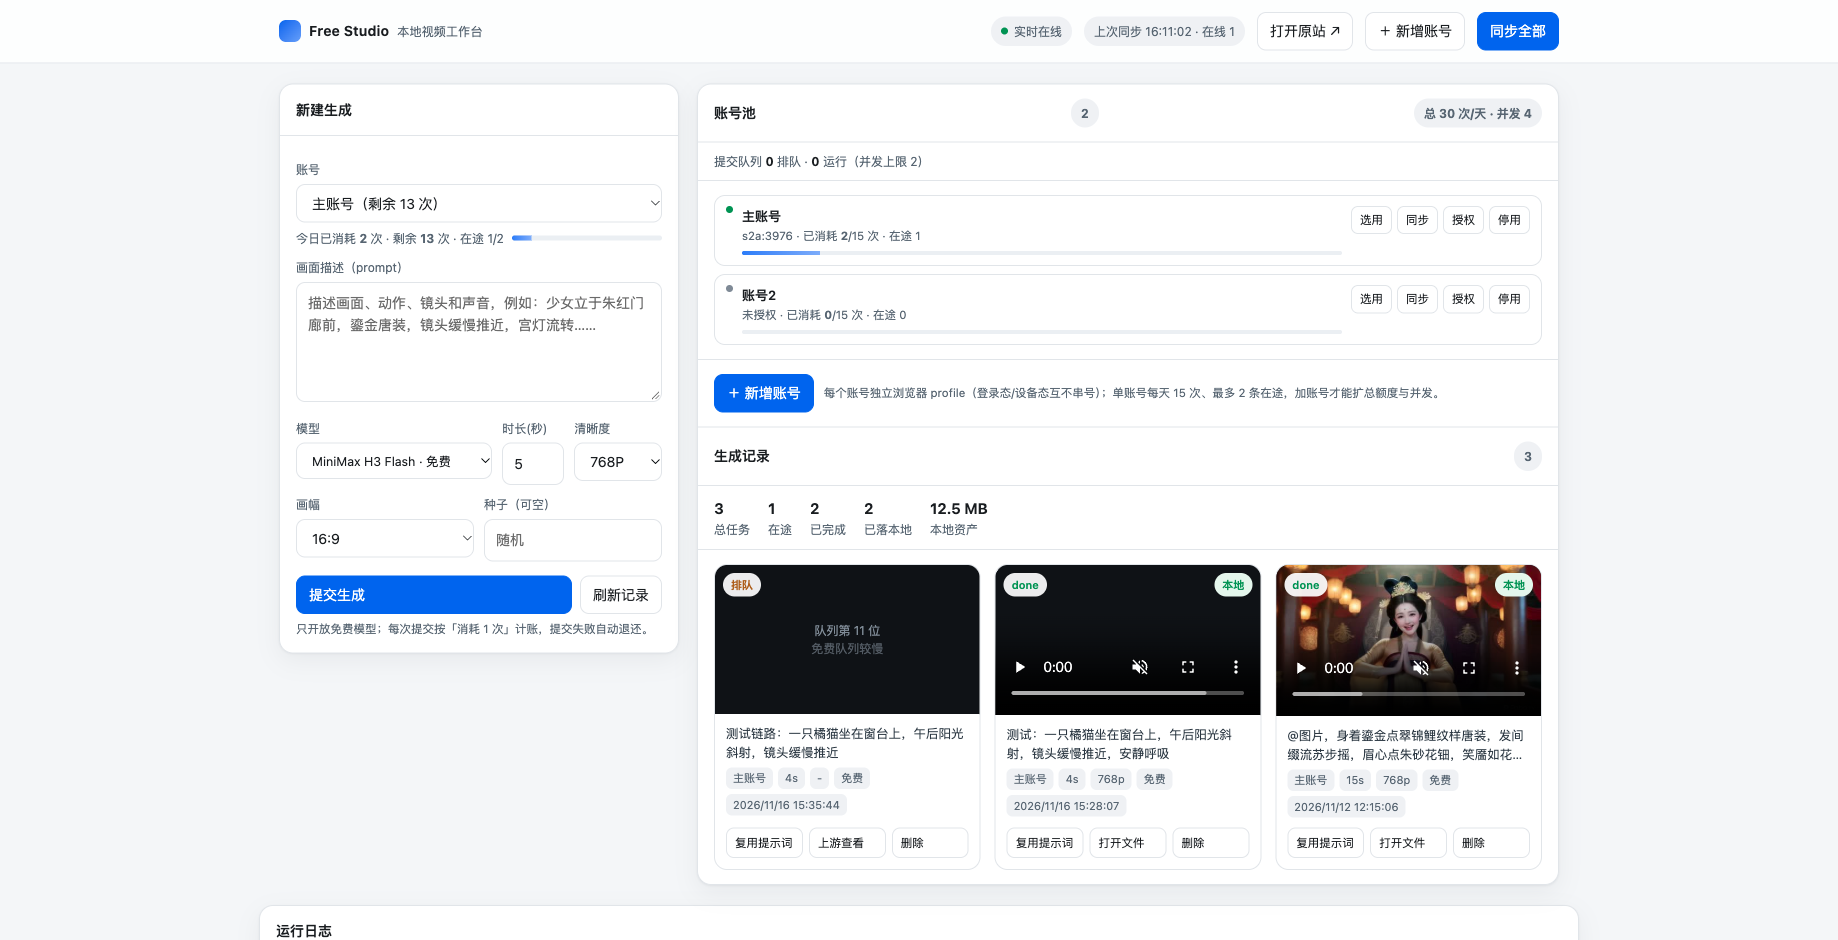
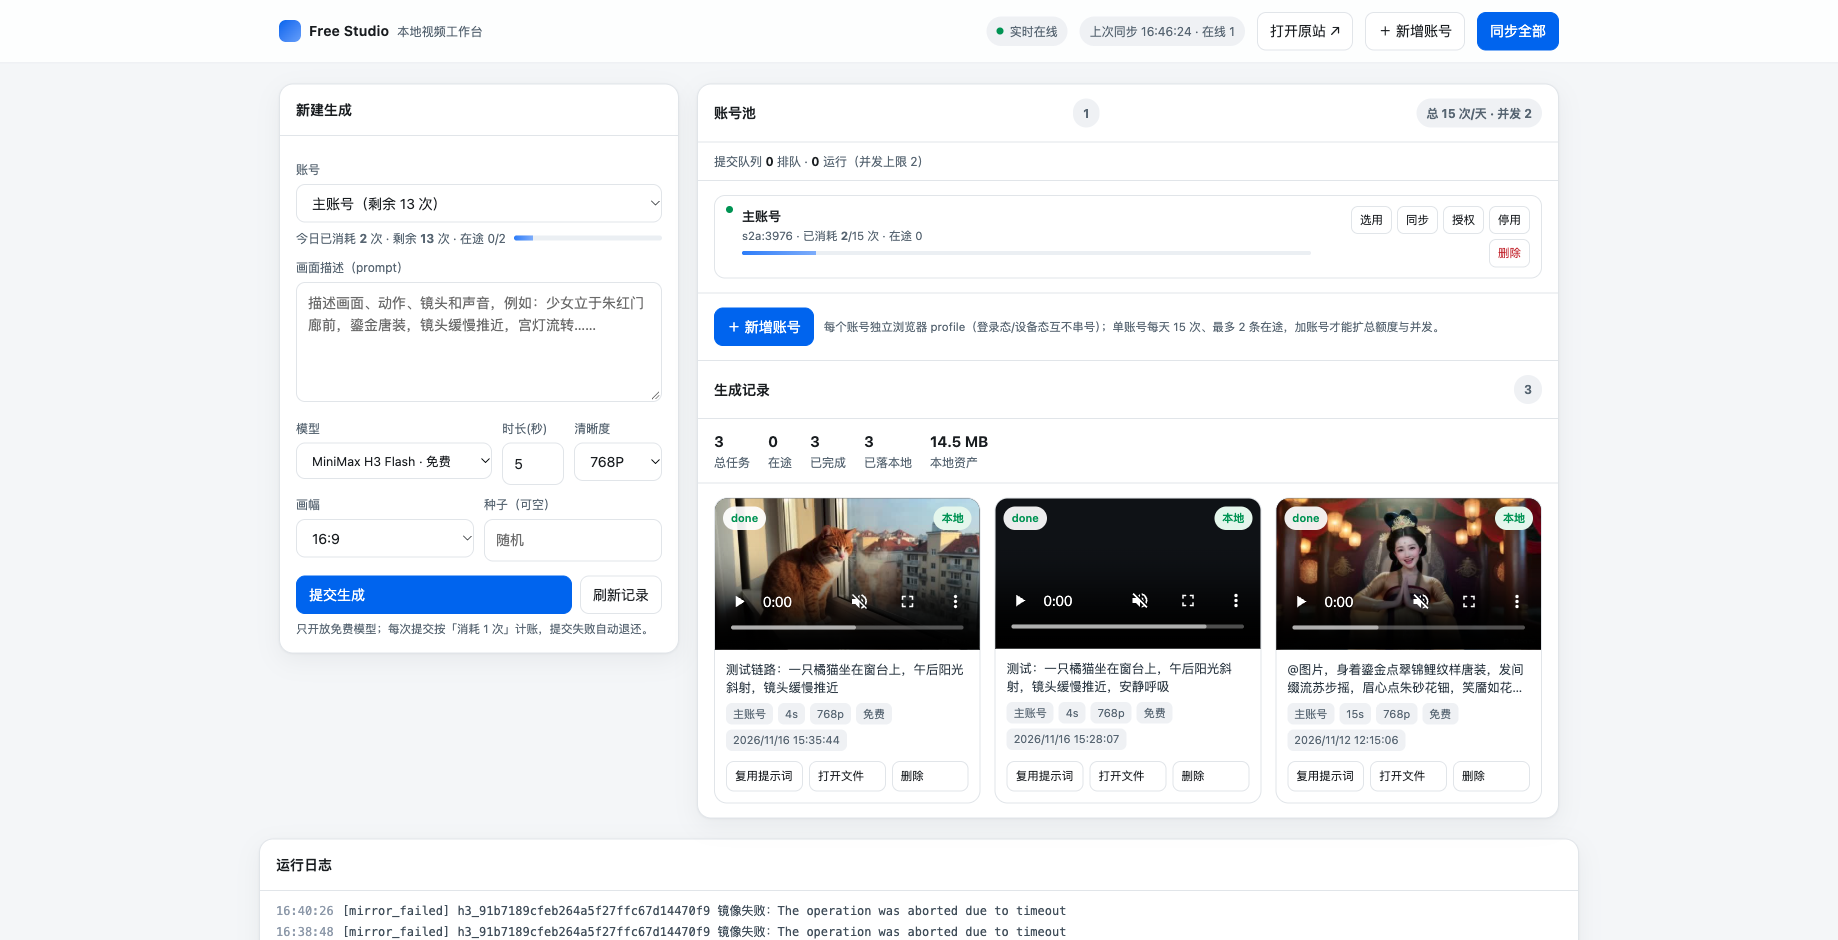
fix: 账号可删除 + 授权窗口置前/兜底 + ego 硬超时 + 镜像改后台队列 + 单实例保护

diff --git a/web/index.html b/web/index.html
@@ -194,7 +194,10 @@
       <div class="steps" style="margin-top:8px">
         从已登录的浏览器 DevTools → Application → Cookies 复制，导入后立即校验 <code>/auth/me</code>。
       </div>
-      <div class="foot"><button id="addCookieGo" class="primary">导入并校验</button></div>
+      <div class="foot">
+        <button id="openLoginPage" class="ghost">打开登录页</button>
+        <button id="addCookieGo" class="primary">导入并校验</button>
+      </div>
     </div>
     <div class="pane" data-pane="ego" hidden>
       <label class="f" style="margin-top:0">账号备注</label>
@@ -226,7 +229,11 @@ function toast(msg, err = false) {
 async function api(path, opts) {
   const res = await fetch(path, { headers: { "Content-Type": "application/json" }, ...opts });
   const body = await res.json().catch(() => ({}));
-  if (!res.ok) throw new Error(body.error || `HTTP ${res.status}`);
+  if (!res.ok) {
+    const err = new Error(body.error || `HTTP ${res.status}`);
+    err.code = body.code || "error";
+    throw err;
+  }
   return body;
 }
 
@@ -266,6 +273,7 @@ function renderAccounts() {
         <button data-op="login">授权</button>
         ${a.needsChallenge ? '<button data-op="challenge">验证</button>' : ""}
         <button data-op="toggle">${a.disabled ? "启用" : "停用"}</button>
+        <button data-op="del" style="color:#c53030">删除</button>
       </div>`;
     item.querySelectorAll("button").forEach((b) => {
       b.onclick = async (e) => {
@@ -279,11 +287,20 @@ function renderAccounts() {
             await api(`/api/accounts/${a.id}/login`, { method: "POST" });
             toast("已打开登录窗口，请完成授权…");
             await refresh();
-            const done = await waitOnline(a.id);
-            toast(done ? "授权成功" : "登录未完成", !done);
+            const done = await waitOnline(a.id, 120000);
+            if (!done) {
+              toast("登录未完成：受控 Chrome 可能起不来，试试「导入 Cookie」", true);
+              addModal.hidden = false; switchTab("cookie");
+            } else toast("授权成功");
           }
           if (op === "challenge") { toast("已打开人机验证窗口，请在弹窗内完成…"); await api(`/api/accounts/${a.id}/challenge`, { method: "POST" }); toast("验证完成"); }
           if (op === "toggle") { await api(`/api/accounts/${a.id}/toggle`, { method: "POST", body: JSON.stringify({ disabled: !a.disabled }) }); }
+          if (op === "del") {
+            if (!confirm(`从账号池删除「${a.label}」？\n\n· 本地已下载的成片会保留\n· 浏览器 profile 默认保留（可重新授权）`)) { b.disabled = false; return; }
+            await api(`/api/accounts/${a.id}/delete`, { method: "POST", body: JSON.stringify({ purge: false }) });
+            if (activeAccount === a.id) { activeAccount = ""; localStorage.removeItem("fs.account"); }
+            toast("已删除账号 " + a.label);
+          }
           await refresh();
         } catch (err) { toast(err.message, true); }
         finally { b.disabled = false; }
@@ -487,13 +504,12 @@ $("btnAddTop").onclick = openAdd;
 $("btnAddAcct").onclick = openAdd;
 $("addClose").onclick = () => { addModal.hidden = true; };
 addModal.addEventListener("click", (e) => { if (e.target === addModal) addModal.hidden = true; });
+function switchTab(name) {
+  document.querySelectorAll(".sheet .tabs button").forEach((x) => x.classList.toggle("on", x.dataset.tab === name));
+  document.querySelectorAll(".sheet .pane").forEach((pane) => { pane.hidden = pane.dataset.pane !== name; });
+}
 document.querySelectorAll(".sheet .tabs button").forEach((b) => {
-  b.onclick = () => {
-    document.querySelectorAll(".sheet .tabs button").forEach((x) => x.classList.toggle("on", x === b));
-    document.querySelectorAll(".sheet .pane").forEach((pane) => {
-      pane.hidden = pane.dataset.pane !== b.dataset.tab;
-    });
-  };
+  b.onclick = () => switchTab(b.dataset.tab);
 });
 
 async function createAccount(label, backend, btn, busyText) {
@@ -523,10 +539,18 @@ $("addBrowserGo").onclick = async () => {
     toast(a ? "账号已接入：" + (a.upstreamUserId || a.label) : "登录未完成，可稍后在账号池点「授权」继续", !a);
   } catch (e) {
     toast(e.message, true);
-    if (/Chrome 起不来|chrome_unavailable/.test(e.message)) {
-      toast("改用「导入 Cookie」标签页，或在本机终端运行 npm run account", true);
+    if (e.code === "chrome_unavailable" || /Chrome 起不来/.test(e.message)) {
+      addModal.hidden = false;
+      switchTab("cookie");
+      toast("受控 Chrome 起不来，改用「导入 Cookie」；也可点下面「打开登录页」用系统浏览器登录", true);
     }
   } finally { btn.disabled = false; btn.textContent = "打开登录窗口"; }
+};
+
+$("openLoginPage").onclick = async () => {
+  try { await api("/api/open-site", { method: "POST" }); }
+  catch (e) { toast(e.message, true); return; }
+  toast("已用系统浏览器打开 paba.tv，登录后按 F12 → Application → Cookies 复制 h3v / h3s / __Host-h3d");
 };
 
 $("addCookieGo").onclick = async () => {

diff --git a/.workbuddy/memory/2026-11-16.md b/.workbuddy/memory/2026-11-16.md
@@ -67,3 +67,22 @@
 - `syncAll` 跳过 `new/removed/disabled` 账号；登录失败不再复活已删除槽位。
 - Chrome 启动：`--headless=new` 在沙箱里秒崩，已加**失败自动降级有头**；实测即便有头也会在加载页面后数秒被沙箱杀掉 —— 本环境只有 ego 稳定。
 - 经验：`waitForChrome` 的 fetch 无超时，必须与「进程退出」竞速，否则请求悬挂。
+
+## 追加（16:45 删除与授权修复）
+
+### 修的问题
+
+1. **账号删不掉**：UI 只有 选用/同步/授权/停用，没有删除。已加「删除」按钮（软删 + 停用 + 停浏览器），API 支持 `{"purge":true}` 连 profile 一起删。
+2. **授权窗口"没打开"**：`Page.open(port, url)` 只建标签页不保证加载，也不置前。改为显式 `goto` 校验 + `Page.bringToFront` + macOS `open -a "Google Chrome"`；页面连不上就 4 次探测后立刻报错，并把 UI 自动切到「导入 Cookie」页（新增「打开登录页」按钮，用系统浏览器兜底）。
+
+### 顺带修掉的坑
+
+- **ego 调用可能永不返回**（CLI 忽略 SIGTERM）→ execFile 的 timeout 不生效，把车道锁死。已加 `Promise.race` 硬超时 + SIGKILL。
+- **页内 fetch 无超时** → evaluate 挂死。已加 AbortController 25s（下载另给 600s）。
+- **同步串行锁**：调度器与手动同步并发操作同一 ego 标签页会互相卡死 → `withSyncLock` + 150s 看门狗。
+- **镜像下载拖垮同步**：免费档 CDN 实测有 3KB/s 的情况（1.9MB 要 10 分钟）→ 改后台队列（并发 1），失败 3 次后 30 分钟退避。
+- **多实例会互相覆盖 db.json**：启动加 EADDRINUSE 保护。
+
+### 验证
+
+同步 1.4–1.7s（之前 100s+ 超时）；3 条成片全部落本地（14.5MB）；删除接口 200；登录接口 12ms 返回。

diff --git a/README.md b/README.md
@@ -56,6 +56,9 @@ npm start               # 启动本地服务 → http://localhost:8790
 | **接管 ego 会话** | 本机用 ego 浏览器登录过 | 无需再登录，直接接管已有会话。**ego 只有一个浏览器 profile，只能接管 1 个账号** |
 
 > 登录接口是**非阻塞**的：点完立刻返回，窗口留给真人操作，服务在后台轮询到 `online` 后自动同步，不会把请求挂住。
+> 登录窗口打开时会自动 `bringToFront`（拉到前台）并校验登录页是否加载成功；失败会**立刻**报错并自动切到「导入 Cookie」页，那里有「打开登录页」按钮可用系统浏览器完成登录。
+
+账号池每条都有 **删除**：软删除 + 停用，本地成片保留；默认保留浏览器 profile（可重新授权），需要彻底清掉可 `POST /api/accounts/:id/delete {"purge":true}`。
 
 ### 账号数与吞吐的关系
 
@@ -163,5 +166,7 @@ data/
 | `403 challenge_required` | `npm run challenge -- <id>`，点完自动重试 |
 | `401 / logged_out` | `npm run login -- <id>` 重新授权 |
 | 免费任务长时间「排队」 | 正常（免费档 10–40 分钟），服务会自动同步并落盘 |
+| 成片显示「待镜像」很久 | 免费档 CDN 偶尔只有几 KB/s，镜像已改为**后台队列**（不阻塞同步）；失败 3 次后 30 分钟内不再重试 |
+| 启动报「端口已被占用」 | 本地库是多进程共享文件，**只能跑一个实例**；先停旧实例再启动 |
 | 无头下验证过不去 | 人机验证需可见窗口，`challenge` 会自动切有头模式 |
 | Chrome 起不来 | 设 `CHROME_PATH`，或 `LANE=ego` 改用 ego 浏览器 |
